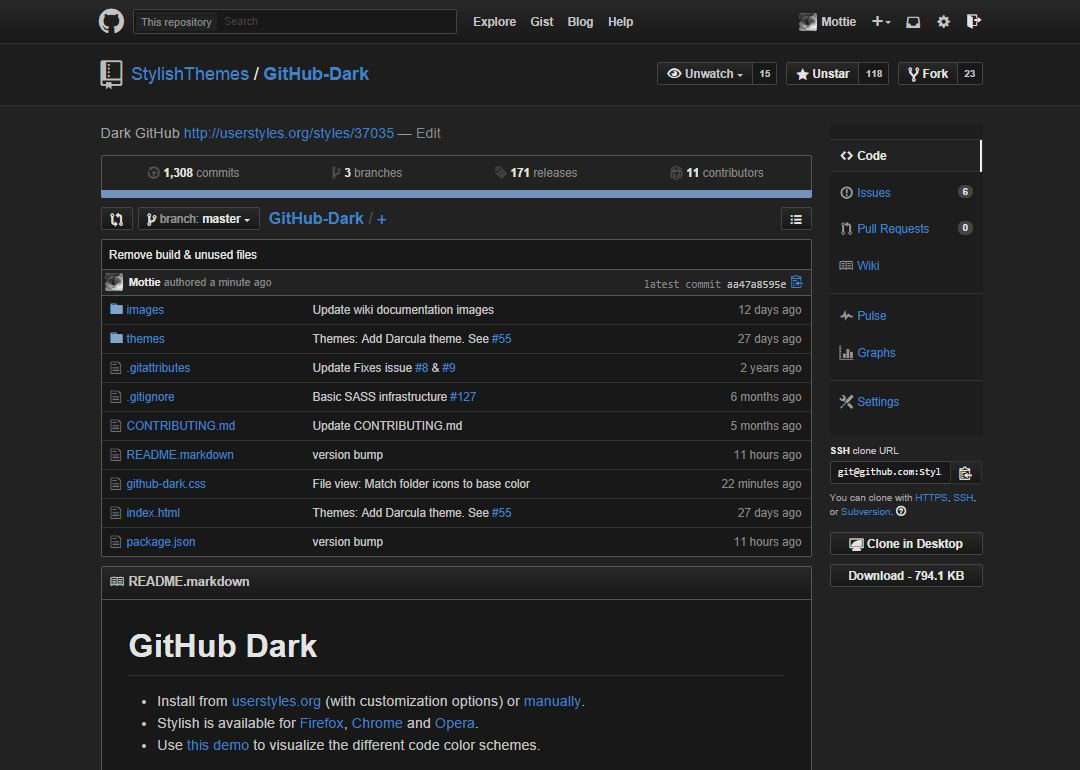
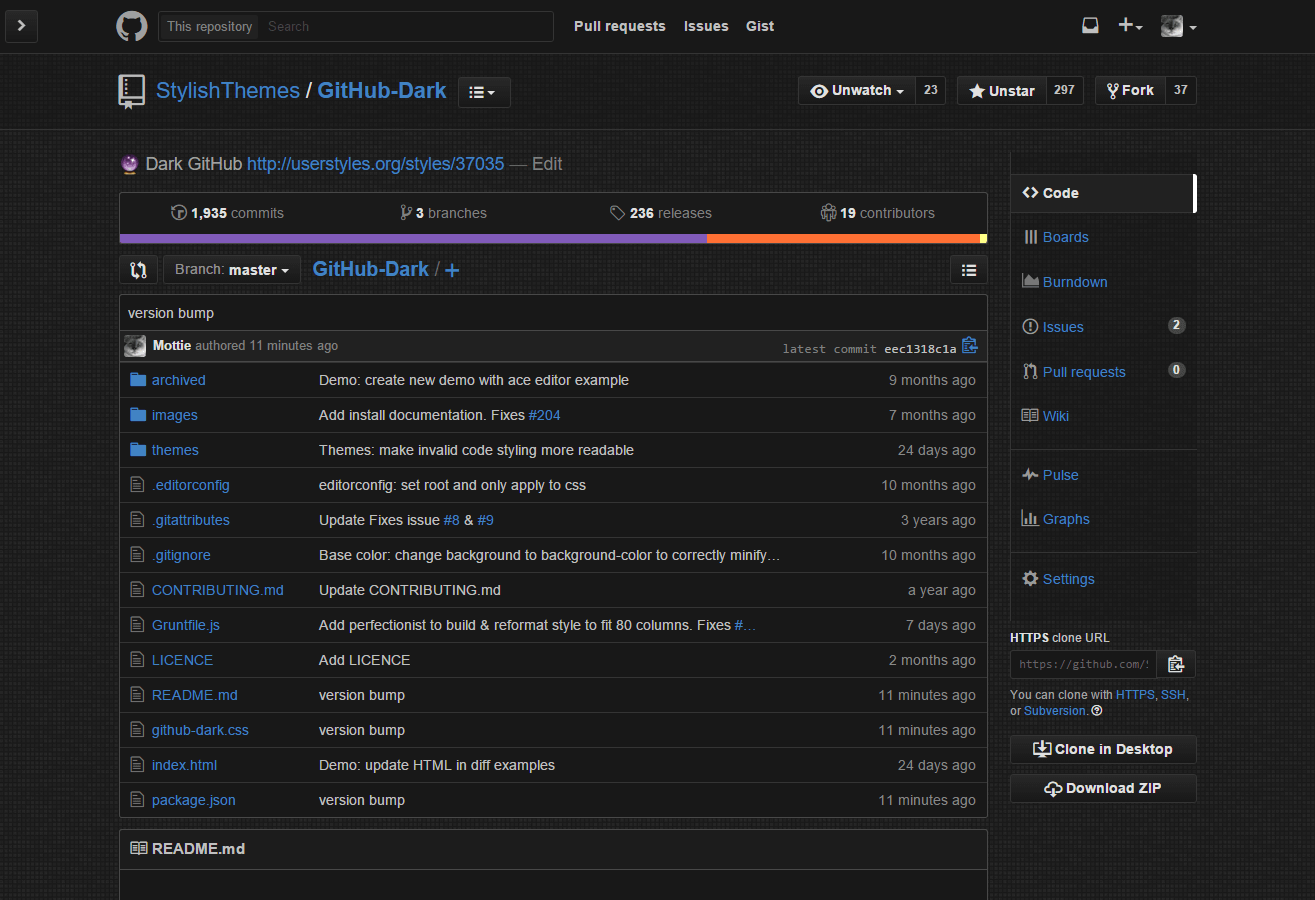
Readme: update screenshot

diff --git a/README.md b/README.md
@@ -7,9 +7,9 @@
 - Please refer to the [installation documentation](https://github.com/StylishThemes/GitHub-Dark/wiki/Install) for more details.
 
 ## Preview
-![GitHub Dark preview](http://i.imgur.com/9ChgiR6.png)
+![GitHub Dark preview](https://stylishthemes.github.io/GitHub-Dark/images/screenshots/after_blue.png)
 
-## [Available Syntax Highlighting Themes](http://stylishthemes.github.io/GitHub-Dark/)
+## [Available Syntax Highlighting Themes](https://stylishthemes.github.io/GitHub-Dark/)
 
 |                      |                        |                          |                 |                       |
 |----------------------|------------------------|--------------------------|-----------------|-----------------------|
